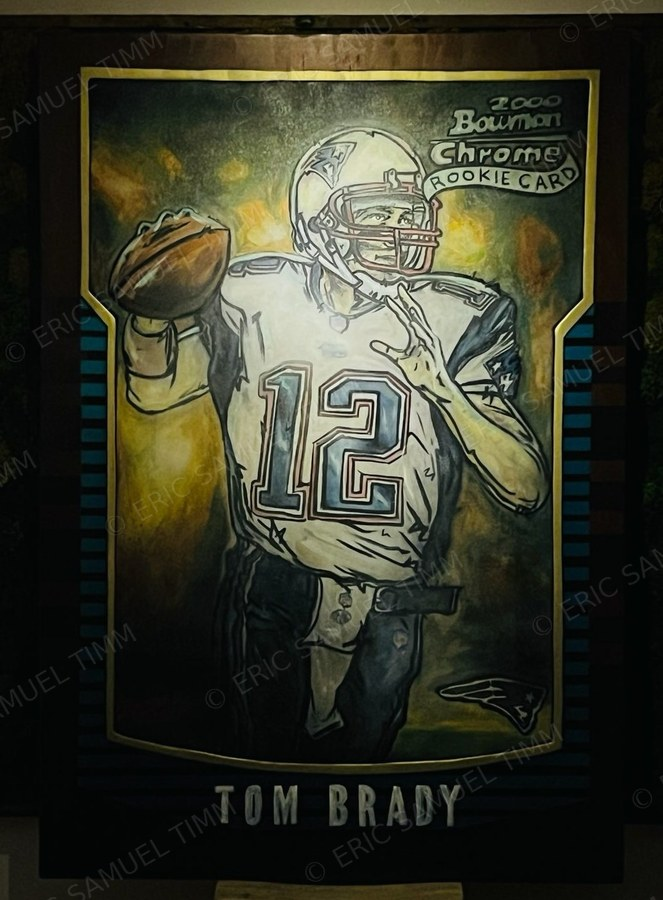
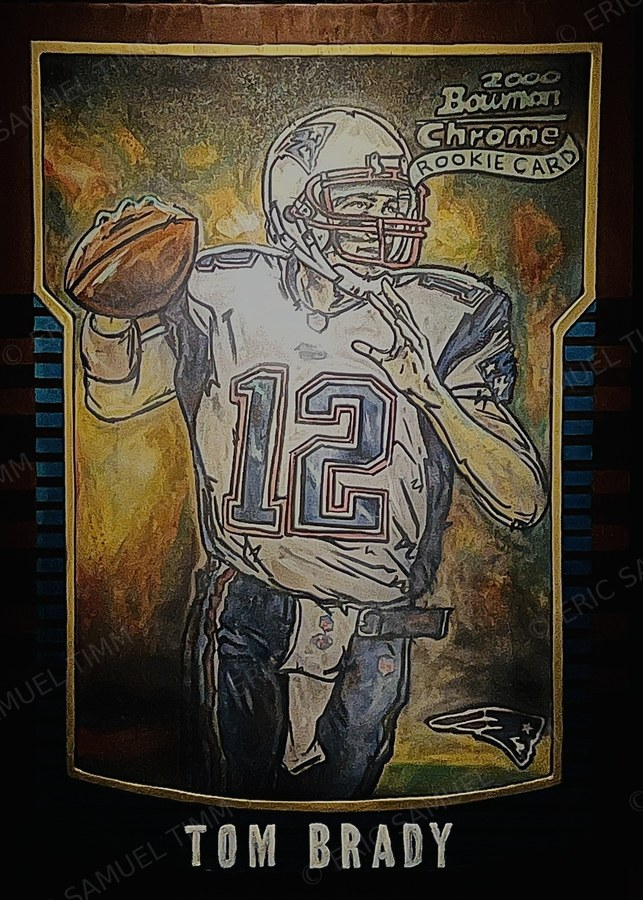
feat: add scale band, swap Brady, call the in-situ shots prints
Eric's answers. His rule is that anything framed like a print is a
print, which covers every in-situ shot on the page including the
four-piece wall by the kitchen, so all of those now say print in their
alt text and captions instead of original.

New .scale band under the collection, from the booth photo he approved:
five originals standing at full height on a lit display wall. The
per-piece dimensions added yesterday are meaningless without something
to measure against — "45in x 64in" on a card reads as a number, not as
a painting taller than the table in front of it. Cropped above the table
graphics so no logo or wordmark is clipped, and exempted to 1800px since
it runs full width.

brady.jpg is now IMG_7974, a clean straight-on shot replacing the
handheld one, cropped to the wood panel's own edge as before.

Worth keeping straight from here: the in-situ row sells the prints and
the scale band sells the originals. A 16x20 framed print and a 45x64
original are not the same product, and the page had been blurring them.

Note he wrote "all originals are big 45*64" as shorthand for the scale
rather than as a correction, so the specific per-piece dimensions from
his document stand.

Claude-Session: https://claude.ai/code/session_01QLk3bm8SFbjx59HwSVCDyF

diff --git a/public/index.html b/public/index.html
@@ -283,6 +283,14 @@
   </section>
 
   <!-- ============ LIMITED EDITION PRINTS ============ -->
+  <!-- ============ SCALE ============ -->
+  <section class="scale reveal">
+    <figure class="scale-figure">
+      <img src="images/lowres/booth.jpg" alt="Five original paintings — Kobe Bryant, Mickey Mantle, Wayne Gretzky, Michael Jordan and Ken Griffey Jr. — standing at full height on a lit display wall behind a table" loading="lazy">
+      <figcaption>The originals, at size. Every one stands four to five feet tall &mdash; closer to a doorway than to the card it came from.</figcaption>
+    </figure>
+  </section>
+
   <section class="editions" id="editions">
     <div class="wrap">
       <div class="section-head reveal">
@@ -384,13 +392,13 @@
   <!-- ============ LIFESTYLE / COLLECTOR'S WALL ============ -->
   <section class="lifestyle" id="lifestyle">
     <div class="lifestyle-media reveal">
-      <img src="images/lowres/installed-wall.jpg" alt="Four framed pieces — Mickey Mantle, Wayne Gretzky, Shohei Ohtani, and Michael Jordan — installed together on a wall in a client's home">
+      <img src="images/lowres/installed-wall.jpg" alt="Four framed prints — Mickey Mantle, Wayne Gretzky, Shohei Ohtani, and Michael Jordan — hung together on a wall in a client's home">
     </div>
     <div class="lifestyle-copy reveal">
       <p class="eyebrow">Built For Where You Live</p>
       <h2>From the studio to the man cave to the great room.</h2>
       <p>Every piece is finished and easily framed to hold its own on a serious wall — whether that's a collector's den or a museum-quiet living room. Sports legends meet fine art. Nothing about it reads like a print off the internet — it just speaks beauty, class, and iconic success.</p>
-      <p class="caption">Mantle, Gretzky, Ohtani, and Jordan, framed and installed together in a client's home.</p>
+      <p class="caption">Mantle, Gretzky, Ohtani, and Jordan &mdash; framed prints, hung together in a client's home.</p>
     </div>
   </section>
 
@@ -399,16 +407,16 @@
     <div class="wrap">
       <div class="installed-grid">
         <figure class="installed-item reveal">
-          <img src="images/lowres/installed-solo.jpg" alt="Mickey Mantle artwork, double-matted in a wide white frame, hanging on a white wall" loading="lazy">
-          <figcaption>Mantle, framed and hung in a collector's front room.</figcaption>
+          <img src="images/lowres/installed-solo.jpg" alt="Framed Mickey Mantle print, double-matted in a wide white frame, hanging on a white wall" loading="lazy">
+          <figcaption>A Mantle print, framed and hung in a collector&rsquo;s front room.</figcaption>
         </figure>
         <figure class="installed-item reveal">
-          <img src="images/lowres/installed-door.jpg" alt="Ken Griffey Jr. artwork in a white frame on a grey wall beside a sliding barn door" loading="lazy">
-          <figcaption>Griffey Jr., holding a wall on its own beside a sliding barn door.</figcaption>
+          <img src="images/lowres/installed-door.jpg" alt="Framed Ken Griffey Jr. print in a white frame on a grey wall beside a sliding barn door" loading="lazy">
+          <figcaption>A Griffey Jr. print, holding a wall on its own beside a sliding barn door.</figcaption>
         </figure>
         <figure class="installed-item reveal">
-          <img src="images/lowres/installed-ledge.jpg" alt="Wayne Gretzky artwork on a picture ledge alongside a framed signed jersey and other framed memorabilia" loading="lazy">
-          <figcaption>Gretzky, sharing a ledge with the rest of the collection.</figcaption>
+          <img src="images/lowres/installed-ledge.jpg" alt="Framed Wayne Gretzky print on a picture ledge alongside a framed signed jersey and other framed memorabilia" loading="lazy">
+          <figcaption>A Gretzky print, sharing a ledge with the rest of the collection.</figcaption>
         </figure>
       </div>
     </div>

diff --git a/public/styles.css b/public/styles.css
@@ -626,6 +626,31 @@ section { position: relative; }
 }
 
 /* ==========================================================================
+   SCALE
+   One wide band under the collection, because the dimensions on each piece
+   ("45in x 64in") mean nothing without something to measure against.
+   ========================================================================== */
+.scale { padding: clamp(8px, 2vw, 24px) 0 clamp(56px, 7vw, 96px); }
+.scale-figure { margin: 0; }
+.scale-figure img {
+  width: 100%;
+  display: block;
+  border-top: 1px solid var(--line);
+  border-bottom: 1px solid var(--line);
+}
+.scale-figure figcaption {
+  max-width: 620px;
+  margin: 20px auto 0;
+  padding: 0 var(--gutter);
+  text-align: center;
+  font-family: var(--serif);
+  font-style: italic;
+  font-size: 14px;
+  line-height: 1.6;
+  color: var(--ink-faint);
+}
+
+/* ==========================================================================
    INSTALLED / IN SITU
    A quiet three-up of the work hanging in real homes — the point is the
    room around the painting, so these crop (unlike the artwork itself).

diff --git a/scripts/watermark.py b/scripts/watermark.py
@@ -41,6 +41,8 @@ DEST = VARIANTS[0][0]
 DISPLAY_OVERRIDES = {
     # spans half the viewport in the Collector's Wall split
     "installed-wall.jpg": 1800,
+    # full-width scale band under the collection
+    "booth.jpg": 1800,
 }
 
 TEXT = "© ERIC SAMUEL TIMM"

diff --git a/public/_eric-site-notes.md b/public/_eric-site-notes.md
@@ -294,3 +294,30 @@ made and should be confirmed:
    stand — but they contradict each other if read side by side. The
    Process detail-strip caption still says "raw canvas grain" for the
    same reason.
+
+## Eric's answers (15 Sep) — prints vs originals
+He confirmed the rule: **if it is framed like a print, it is a print.**
+That covers every in-situ shot on the page — the four-piece wall beside
+the kitchen included — so all of those now say "print" in their alt text
+and captions. They had briefly said "original", which was wrong.
+
+He also confirmed the originals are large. Note he wrote "all originals
+are big 45*64" as shorthand for the scale, not as a correction to the
+per-piece list in `web copy master.pdf` — the site keeps his specific
+per-piece dimensions (45x64, 41x58.5, 42x60, 49x58), which are more
+precise than one flat number. Worth a second confirmation if it matters.
+
+Two images approved and added:
+- `brady.jpg` is now IMG_7974, a clean straight-on shot, replacing the
+  handheld one. Same crop treatment: to the wood panel's own edge.
+- `booth.jpg` (IMG_6918) is new — five originals standing at full height
+  on a lit display wall. It drives the new `.scale` band directly under
+  the collection, because "45in x 64in" on a card means nothing without
+  something to measure against. Cropped above the table graphics so no
+  logo or wordmark is clipped; exempted to 1800px in
+  `DISPLAY_OVERRIDES` since it runs full width.
+
+This also resolves a tension worth remembering: the in-situ row sells
+the **prints**, and the scale band sells the **originals**. Keep those
+straight in any future copy — a 16x20 framed print and a 45x64 original
+are not the same product.
